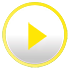
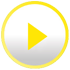
UI cleanup
- Moved the temp download button left
- Fixed play/pause image display
- Removed stop.png image

diff --git a/assets/www/index.html b/assets/www/index.html
@@ -84,7 +84,7 @@
 				</div>
 				<div id="media-controls">
 					<a href="#" id="player-play" title="Play / Pause"></a> 
-					<a href="#" id="player-stop" title="Stop"></a>
+					<!-- <a href="#" id="player-stop" title="Stop"></a> -->
 				</div>
 			</div>
 			<!-- Audio player code ends here -->
@@ -94,7 +94,7 @@
 		<div data-theme="" data-role="footer" data-position="fixed">
 			<h1></h1>
 			<a data-role="button" data-inline="true" href="about.html "
-						class="ui-btn-right"> Download </a>
+						class="ui-btn-left"> Download </a>
 			<a data-role="button" data-inline="true" href="about.html "
 				class="ui-btn-right"> About Us </a>
 		</div>
